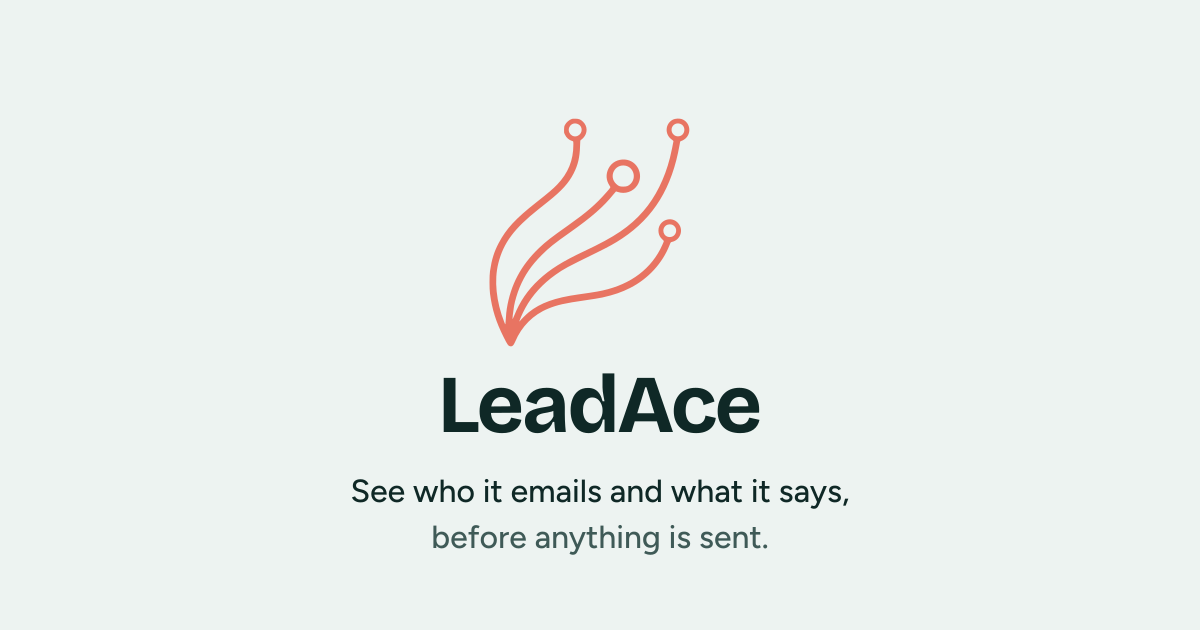
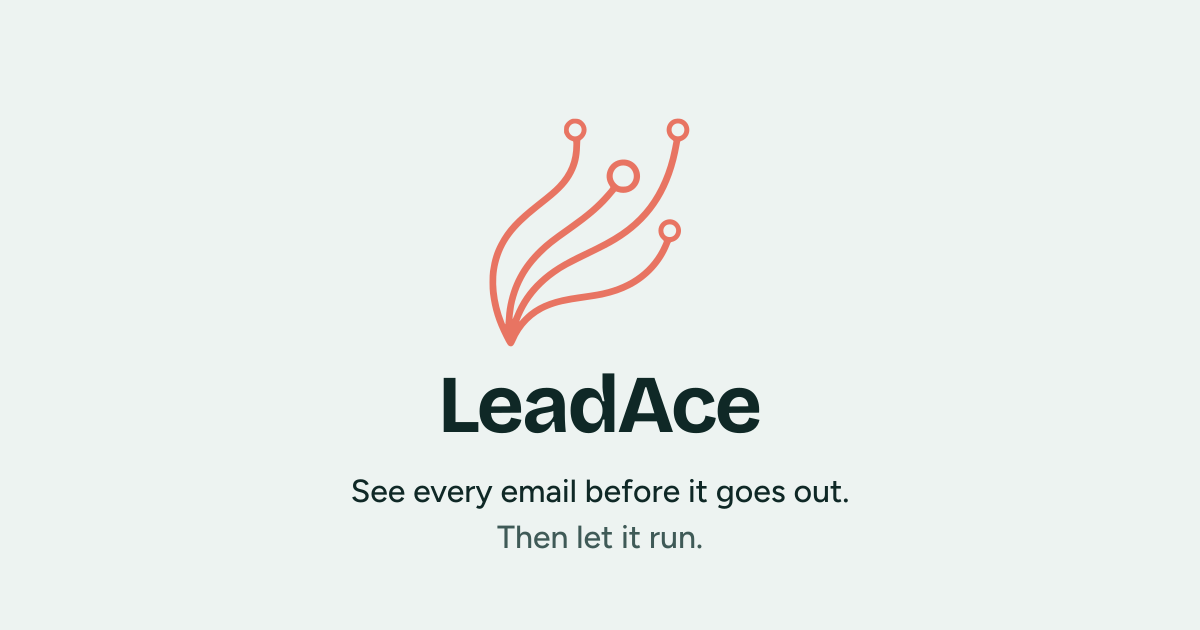
sync: mirror from lead-ace@9be902e21fb1

Changed region(s): [[0.3392, 0.754, 0.7092, 0.8746]]

diff --git a/frontend/src/app.html b/frontend/src/app.html
@@ -13,14 +13,14 @@
 		<link href="https://fonts.googleapis.com/css2?family=Figtree:wght@400..700&family=Bricolage+Grotesque:opsz,wght@12..96,500..800&family=JetBrains+Mono:wght@400;500&display=swap" rel="stylesheet" />
 		<title>LeadAce</title>
 		<meta property="og:title" content="LeadAce" />
-		<meta property="og:description" content="Outbound from your own Gmail. Approve every email before it goes out, and learn why people said no." />
+		<meta property="og:description" content="Outbound from your own Gmail. Approve the first emails, switch it on, and it runs every day and tells you who replied, why the others said no, and what it changed." />
 		<meta property="og:type" content="website" />
 		<meta property="og:url" content="https://app.leadace.ai" />
-		<meta property="og:image" content="https://app.leadace.ai/og.png?v=3" />
+		<meta property="og:image" content="https://app.leadace.ai/og.png?v=4" />
 		<meta property="og:image:width" content="1200" />
 		<meta property="og:image:height" content="630" />
 		<meta name="twitter:card" content="summary_large_image" />
-		<meta name="twitter:image" content="https://app.leadace.ai/og.png?v=3" />
+		<meta name="twitter:image" content="https://app.leadace.ai/og.png?v=4" />
 		<script nonce="%sveltekit.nonce%">
 			(function () {
 				try {

diff --git a/frontend/src/routes/login/+page.svelte b/frontend/src/routes/login/+page.svelte
@@ -81,7 +81,7 @@
       <span class="font-display text-2xl font-semibold tracking-tight text-text">LeadAce</span>
     </div>
     <h1 class="mt-10 animate-rise font-display text-3xl font-semibold leading-tight tracking-tight text-balance text-text">
-      {fromSignupCta ? 'See who it emails and what it says, before anything is sent.' : 'Welcome back'}
+      {fromSignupCta ? 'See every email before it goes out. Then let it run.' : 'Welcome back'}
     </h1>
     <p class="mt-3 animate-rise text-base text-text-secondary">
       {fromSignupCta
